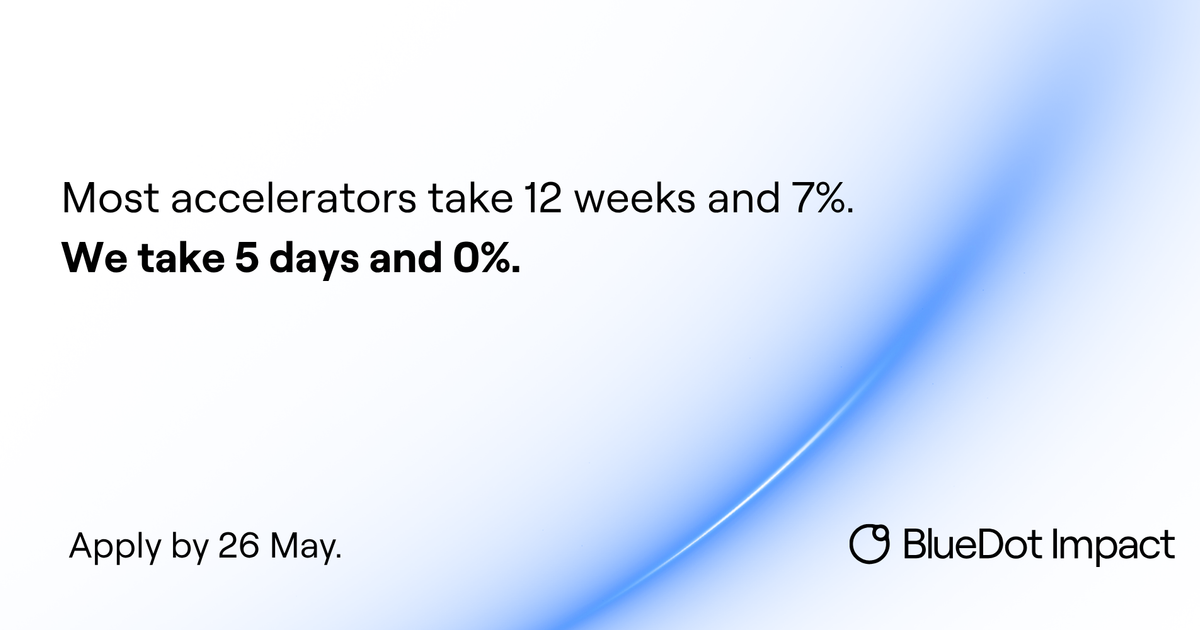
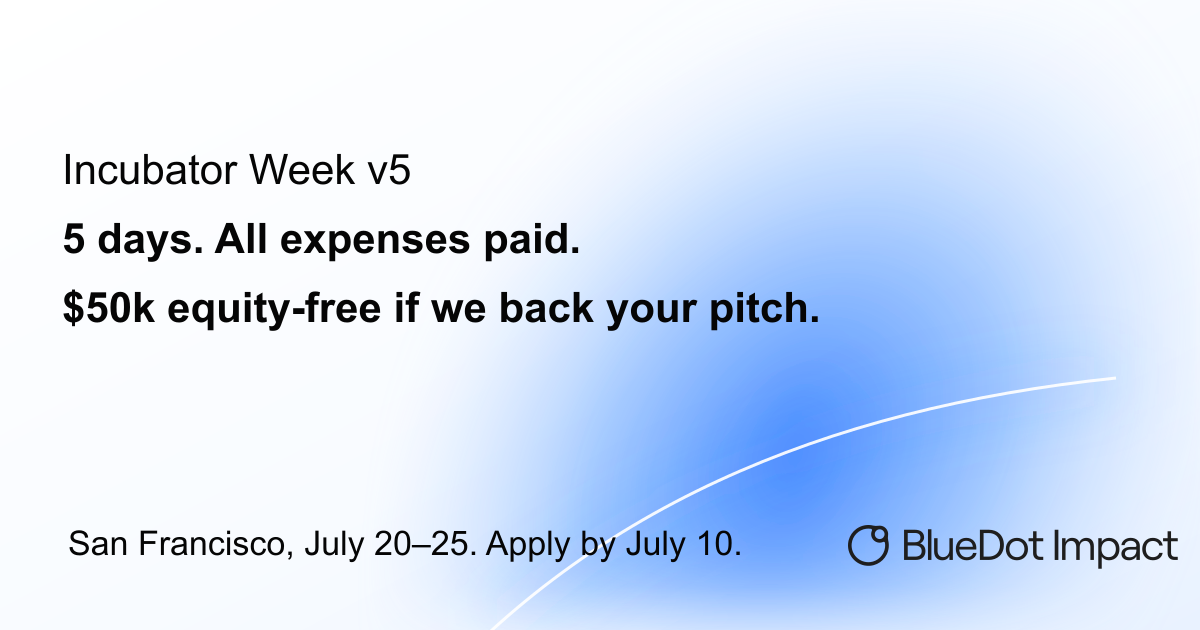
Refresh Incubator Week v5 lander (#2573)

Pull request: Refresh Incubator Week v5 lander
# Description
<!-- Explain why you've made the changes, and highlight any areas of 'weirdness' -->



## Issue
<!-- If this PR is related to a project, and there's no related issue, link this PR to the project -->

Fixes #

## Developer checklist

- [ ] Front-end code follows [Component Accessibility Checklist (for Testing)](https://github.com/bluedotimpact/bluedot/blob/master/DEVELOPMENT_HANDBOOK.md#component-accessibility-checklist)
- [ ] Considered having snapshot tests and/or happy path functional tests
- [ ] Considered adding Storybook stories

<!-- If adding/removing db schema, see DEVELOPMENT_HANDBOOK.md for the two-PR migration process -->

<!-- You might also want to check the tests locally with `npm run test`, although CI will check this for you -->

## Screenshot
<!-- If this PR results in visual changes -->

| 📸 | Before | After |
|---------|---|---|
| 📱  | <!-- **Mobile** before --> | <!-- **Mobile** after --> |
| 🖥️ | <!-- **Desktop** before --> | <!-- **Desktop** after --> |

diff --git a/apps/website/src/components/incubator-week/AboutBlueDotSection.tsx b/apps/website/src/components/incubator-week/AboutBlueDotSection.tsx
@@ -5,17 +5,30 @@ type Props = {
   applicationUrl: string | undefined;
   applicationDeadline?: string;
   ctaLabel?: string;
+  contactEmail?: string;
 };
 
-const AboutBlueDotSection = ({ applicationUrl, applicationDeadline, ctaLabel }: Props) => {
+const AboutBlueDotSection = ({
+  applicationUrl,
+  applicationDeadline,
+  ctaLabel,
+  contactEmail,
+}: Props) => {
   const label = ctaLabel ?? (applicationDeadline ? `Apply by ${applicationDeadline}` : 'Apply now');
   return (
     <section className="section section-body incubator-week-about-bluedot-section">
       <div className="w-full flex flex-col gap-6">
         <h3 className={pageSectionHeadingClass}>About BlueDot</h3>
         <P>
-          BlueDot Impact is a nonprofit based in London and SF, building the workforce and organisations needed to safely navigate AGI. We&apos;ve raised over $35M and trained over 8,000 people since 2022.
+          BlueDot Impact is a nonprofit based in London and San Francisco, building the workforce and organisations needed to safely navigate AGI. We&apos;ve raised over $35M and trained over 8,000 people since 2022.
         </P>
+        {contactEmail && (
+          <P className="text-size-sm leading-[1.6] text-bluedot-navy/80">
+            For questions, reach out to{' '}
+            <a href={`mailto:${contactEmail}`} className="underline hover:no-underline">{contactEmail}</a>
+            .
+          </P>
+        )}
         {applicationUrl && (
           <CTALinkOrButton
             variant="primary"

diff --git a/apps/website/src/pages/programs/incubator-week.tsx b/apps/website/src/pages/programs/incubator-week.tsx
@@ -16,8 +16,9 @@ import {
 
 const PROGRAM_SLUG = 'incubator-week';
 const FALLBACK_NAME = 'Incubator Week';
-const FALLBACK_DESCRIPTION = 'Most accelerators take 12 weeks and 7%. We take 5 days and 0%. Fly to London to turn your AI safety idea into a funded org. $50k if your pitch lands. More for the strongest teams. Equity-free.';
-const APPLICATION_DEADLINE = '26 May';
+const PROGRAM_DESCRIPTION = '5 days. All expenses paid. $50k, equity-free, if we back your pitch. San Francisco, July 20–25. Applications close July 10.';
+const APPLICATION_DEADLINE = 'July 10';
+const CONTACT_EMAIL = '[email redacted]';
 const SITE_URL = process.env.NEXT_PUBLIC_SITE_URL ?? 'https://bluedot.org';
 const LINK_PREVIEW_IMAGE = `${SITE_URL}/images/programs/link-preview/incubator-week.png`;
 
@@ -41,7 +42,7 @@ const IncubatorWeekProgramPage = ({ programName, programDescription }: ProgramDe
         <meta property="og:image:width" content="1200" />
         <meta property="og:image:height" content="630" />
         <meta property="og:image:type" content="image/png" />
-        <meta property="og:image:alt" content="Most accelerators take 12 weeks and 7%. We take 5 days and 0%. Apply by 26 May. BlueDot Impact." />
+        <meta property="og:image:alt" content="Incubator Week v5. 5 days. All expenses paid. $50k equity-free. San Francisco, July 20–25. Apply by July 10. BlueDot Impact." />
         <meta name="twitter:card" content="summary_large_image" />
         <meta name="twitter:title" content={`${programName} | BlueDot Impact`} />
         <meta name="twitter:description" content={programDescription} />
@@ -60,10 +61,10 @@ const IncubatorWeekProgramPage = ({ programName, programDescription }: ProgramDe
           url: applicationUrl,
         }}
         stats={[
-          { label: 'Cohort', value: 'v4' },
-          { label: 'Runs', value: '1–5 June' },
+          { label: 'Cohort', value: 'v5' },
+          { label: 'Runs', value: 'July 20–25' },
           { label: 'Funding', value: '$50k equity-free' },
-          { label: 'Covered', value: 'Flights, stay, meals' },
+          { label: 'Covered', value: 'All expenses paid' },
         ]}
       />
       <TrackRecordSection />
@@ -72,6 +73,7 @@ const IncubatorWeekProgramPage = ({ programName, programDescription }: ProgramDe
       <AboutBlueDotSection
         applicationUrl={applicationUrl}
         applicationDeadline={APPLICATION_DEADLINE}
+        contactEmail={CONTACT_EMAIL}
       />
     </div>
   );
@@ -79,7 +81,7 @@ const IncubatorWeekProgramPage = ({ programName, programDescription }: ProgramDe
 
 export const getStaticProps: GetStaticProps<ProgramDetailPageProps> = () => getProgramDetailPageStaticProps(
   PROGRAM_SLUG,
-  { programName: FALLBACK_NAME, programDescription: FALLBACK_DESCRIPTION },
+  { programName: FALLBACK_NAME, programDescription: PROGRAM_DESCRIPTION },
 );
 
 IncubatorWeekProgramPage.pageRendersOwnNav = true;

diff --git a/apps/website/src/components/grants/grantPrograms.tsx b/apps/website/src/components/grants/grantPrograms.tsx
@@ -61,8 +61,8 @@ export const GRANT_PROGRAMS: GrantProgramDefinition[] = [
     title: 'Incubator Week',
     href: '/programs/incubator-week',
     track: 'Launch',
-    goal: 'Back graduates launching AI safety companies, with seed funding and an intensive week in London.',
-    scope: 'Cohort 4 runs in London, 1–5 June. Apply by 26 May for a five-day sprint from idea to funded.',
+    goal: 'Back graduates launching AI safety companies, with equity-free funding and an intensive week in San Francisco.',
+    scope: 'Cohort 5 runs in San Francisco, July 20–25. Apply by July 10 for a five-day sprint from idea to funded.',
     scopeLabel: 'Format',
     status: 'Active',
   },
@@ -205,7 +205,7 @@ export const GRANT_PROGRAM_SECTIONS: Record<ConfigurableGrantProgramSlug, GrantP
       {
         id: 'expenses',
         question: 'What expenses are covered?',
-        answer: 'Everything. We\'ll fly you to London, provide accommodation, and cover all meals during the week. You just need to show up ready to build.',
+        answer: 'Everything. We\'ll fly you to San Francisco, provide accommodation, and cover all meals during the week. You just need to show up ready to build.',
       },
       {
         id: 'tracks',
@@ -215,19 +215,19 @@ export const GRANT_PROGRAM_SECTIONS: Record<ConfigurableGrantProgramSlug, GrantP
       {
         id: 'funding',
         question: 'How does the funding work?',
-        answer: 'Strong pitches on Friday get $5k on the spot, up to $45k more after two weeks of progress, and a path to $200k total for the strongest teams. Funding is equity-free.',
+        answer: 'If we back your pitch, we will give you $50k equity-free by the end of the week.',
       },
       {
         id: 'bluedot',
         question: 'Who is BlueDot Impact?',
         answer: (
           <>
-            We&apos;re a London-based nonprofit. Since 2022, we&apos;ve trained over 6,000 people. Our courses are the main entry point into the AI safety field, with alumni now working at OpenAI, Anthropic, DeepMind, the UK AI Safety Institute, and many more.
+            We&apos;re a London and San Francisco-based nonprofit. Since 2022, we&apos;ve trained over 8,000 people. Our courses are the main entry point into the AI safety field, with alumni now working at OpenAI, Anthropic, DeepMind, the UK AI Safety Institute, and many more.
             <br /><br />
             Incubator Week is our program for the most entrepreneurial participants — the ones ready to build the organizations the world needs.
           </>
         ),
-        answerText: 'We\'re a London-based nonprofit. Since 2022, we\'ve trained over 6,000 people. Our courses are the main entry point into the AI safety field, with alumni now working at OpenAI, Anthropic, DeepMind, the UK AI Safety Institute, and many more. Incubator Week is our program for the most entrepreneurial participants — the ones ready to build the organizations the world needs.',
+        answerText: 'We\'re a London and San Francisco-based nonprofit. Since 2022, we\'ve trained over 8,000 people. Our courses are the main entry point into the AI safety field, with alumni now working at OpenAI, Anthropic, DeepMind, the UK AI Safety Institute, and many more. Incubator Week is our program for the most entrepreneurial participants — the ones ready to build the organizations the world needs.',
       },
     ],
   },

diff --git a/apps/website/src/components/grants/GrantProgramCard.stories.tsx b/apps/website/src/components/grants/GrantProgramCard.stories.tsx
@@ -54,8 +54,8 @@ export const OnHiatus: Story = {
   args: {
     slug: 'incubator-week',
     title: 'Incubator Week',
-    goal: 'Back graduates launching AI safety companies, with seed funding and an intensive week in London.',
-    scope: 'Cohort 4 runs in London, 1–5 June. Apply by 26 May for a five-day sprint from idea to funded.',
+    goal: 'Back graduates launching AI safety companies, with equity-free funding and an intensive week in San Francisco.',
+    scope: 'Cohort 5 runs in San Francisco, July 20–25. Apply by July 10 for a five-day sprint from idea to funded.',
     scopeLabel: 'Format',
     href: '/programs/incubator-week',
     status: 'On hiatus',

diff --git a/apps/website/src/components/incubator-week/LogisticsSection.tsx b/apps/website/src/components/incubator-week/LogisticsSection.tsx
@@ -4,7 +4,7 @@ import { pageSectionHeadingClass } from '../PageListRow';
 const LOGISTICS = [
   {
     label: 'Location',
-    body: 'In-person in London, working from LISA alongside Apollo Research and other leading organizations. We\'ll fly you in and cover all expenses.',
+    body: 'In-person in San Francisco. We\'ll fly you in and cover all expenses.',
   },
   {
     label: 'Focus areas',
@@ -12,7 +12,7 @@ const LOGISTICS = [
   },
   {
     label: 'Schedule',
-    body: '1-5 June.',
+    body: 'July 20–25.',
   },
 ];
 

diff --git a/apps/website/src/components/incubator-week/WhatThisIsForSection.tsx b/apps/website/src/components/incubator-week/WhatThisIsForSection.tsx
@@ -35,7 +35,7 @@ const WhatThisIsForSection = () => {
             Incubator Week is a 5-day sprint for experts considering founding in AI safety.
           </P>
           <P>
-            We&apos;ll launch you into the field, help you lock in on a problem, find a co-founder. If we like your pitch we will give you $50k equity-free by the end of the week. The week is held at <a href="https://www.safeai.org.uk/" className="underline hover:no-underline">LISA</a> in London.
+            We&apos;ll launch you into the field, help you lock in on a problem, find a co-founder. If we back your pitch we will give you $50k equity-free by the end of the week. The week is held in San Francisco.
           </P>
         </div>
 
@@ -43,7 +43,7 @@ const WhatThisIsForSection = () => {
 
         <div className="flex flex-col gap-5">
           <P>
-            Three cohorts in: 9 companies founded, $1M+ raised, 9-figure aggregate expected this year.
+            Past cohorts: 9 companies founded, $1M+ raised, 9-figure aggregate expected this year.
           </P>
           <div className="flex flex-col gap-2">
             <P>Alumni include:</P>

diff --git a/apps/website/src/components/incubator-week/WhatYouGetSection.tsx b/apps/website/src/components/incubator-week/WhatYouGetSection.tsx
@@ -19,14 +19,14 @@ const BENEFITS: {
   {
     icon: PiHandshake,
     title: 'Work alongside the best',
-    description: 'You\'ll work from our office at LISA alongside Apollo Research and other leading AI safety organizations. We bring in founders, funders, and experts throughout the week.',
+    description: 'You\'ll work in person in San Francisco. We bring in founders, funders, and experts throughout the week.',
   },
   {
     icon: PiCurrencyDollar,
     title: 'Get backed to build',
     description: (
       <>
-        Strong pitches receive initial grants of £50k+ to work on your project full-time. Our first batch backed{' '}
+        If we back your pitch, you&apos;ll receive $50k equity-free to work on your project full-time. Our first batch backed{' '}
         <a href="https://exonalab.com/" target="_blank" rel="noreferrer" className="underline hover:no-underline">Exona</a>
         {' '}— they have since raised more, work from our co-working space, and are already hiring.
       </>

diff --git a/apps/website/src/components/incubator-week/AboutBlueDotSection.stories.tsx b/apps/website/src/components/incubator-week/AboutBlueDotSection.stories.tsx
@@ -21,7 +21,8 @@ type Story = StoryObj<typeof meta>;
 export const Default: Story = {
   args: {
     applicationUrl: 'https://example.com/apply',
-    applicationDeadline: '26 May',
+    applicationDeadline: 'July 10',
+    contactEmail: '[email redacted]',
   },
 };
 

diff --git a/apps/website/src/__tests__/pages/programs.test.tsx b/apps/website/src/__tests__/pages/programs.test.tsx
@@ -59,7 +59,7 @@ const mockPrograms = [
     id: 'rec-incubator',
     name: 'Incubator week',
     status: 'Active',
-    description: 'Fly to London to turn your AI safety idea into a funded org.',
+    description: 'Fly to San Francisco to turn your AI safety idea into a funded org.',
     applicationForm: 'https://example.com/incubator',
     category: 'Found',
     slug: 'incubator-week',

diff --git a/apps/website/src/__tests__/testUtils.ts b/apps/website/src/__tests__/testUtils.ts
@@ -101,7 +101,7 @@ export const MOCK_NAV_PROGRAMS: Program[] = [
     id: 'rec-incubator',
     name: 'Incubator Week',
     status: 'Active',
-    description: 'Most accelerators take 12 weeks and 7%. We take 5 days and 0%. Fly to London to turn your AI safety idea into a funded org. $50k if your pitch lands. More for the strongest teams. Equity-free.',
+    description: '5 days. All expenses paid. $50k, equity-free, if we back your pitch. San Francisco, July 20–25. Applications close July 10.',
     applicationForm: 'https://example.com/incubator',
     category: 'Found',
     slug: 'incubator-week',

diff --git a/apps/website/src/components/incubator-week/TheWeekSection.tsx b/apps/website/src/components/incubator-week/TheWeekSection.tsx
@@ -20,7 +20,7 @@ const SCHEDULE = [
   {
     cadence: 'Friday',
     title: 'Pitch for funding',
-    body: 'Pitch to us. Strong pitches get $5k on the spot, up to $45k more after two weeks of progress, and a path to $200k total for the strongest teams.',
+    body: 'Pitch to us. If we back your pitch, we will give you $50k equity-free by the end of the week.',
   },
 ];
 

diff --git a/apps/website/src/components/incubator-week/TrackRecordSection.tsx b/apps/website/src/components/incubator-week/TrackRecordSection.tsx
@@ -9,7 +9,7 @@ const TrackRecordSection = () => {
 
         <div className="flex flex-col gap-5">
           <P>
-            Three cohorts in: 23 participants, 11 companies founded, 7 still going, $1M+ raised.
+            Past cohorts: 23 participants, 11 companies founded, 7 still going, $1M+ raised.
           </P>
           <div className="flex flex-col gap-2">
             <P>Alumni include:</P>